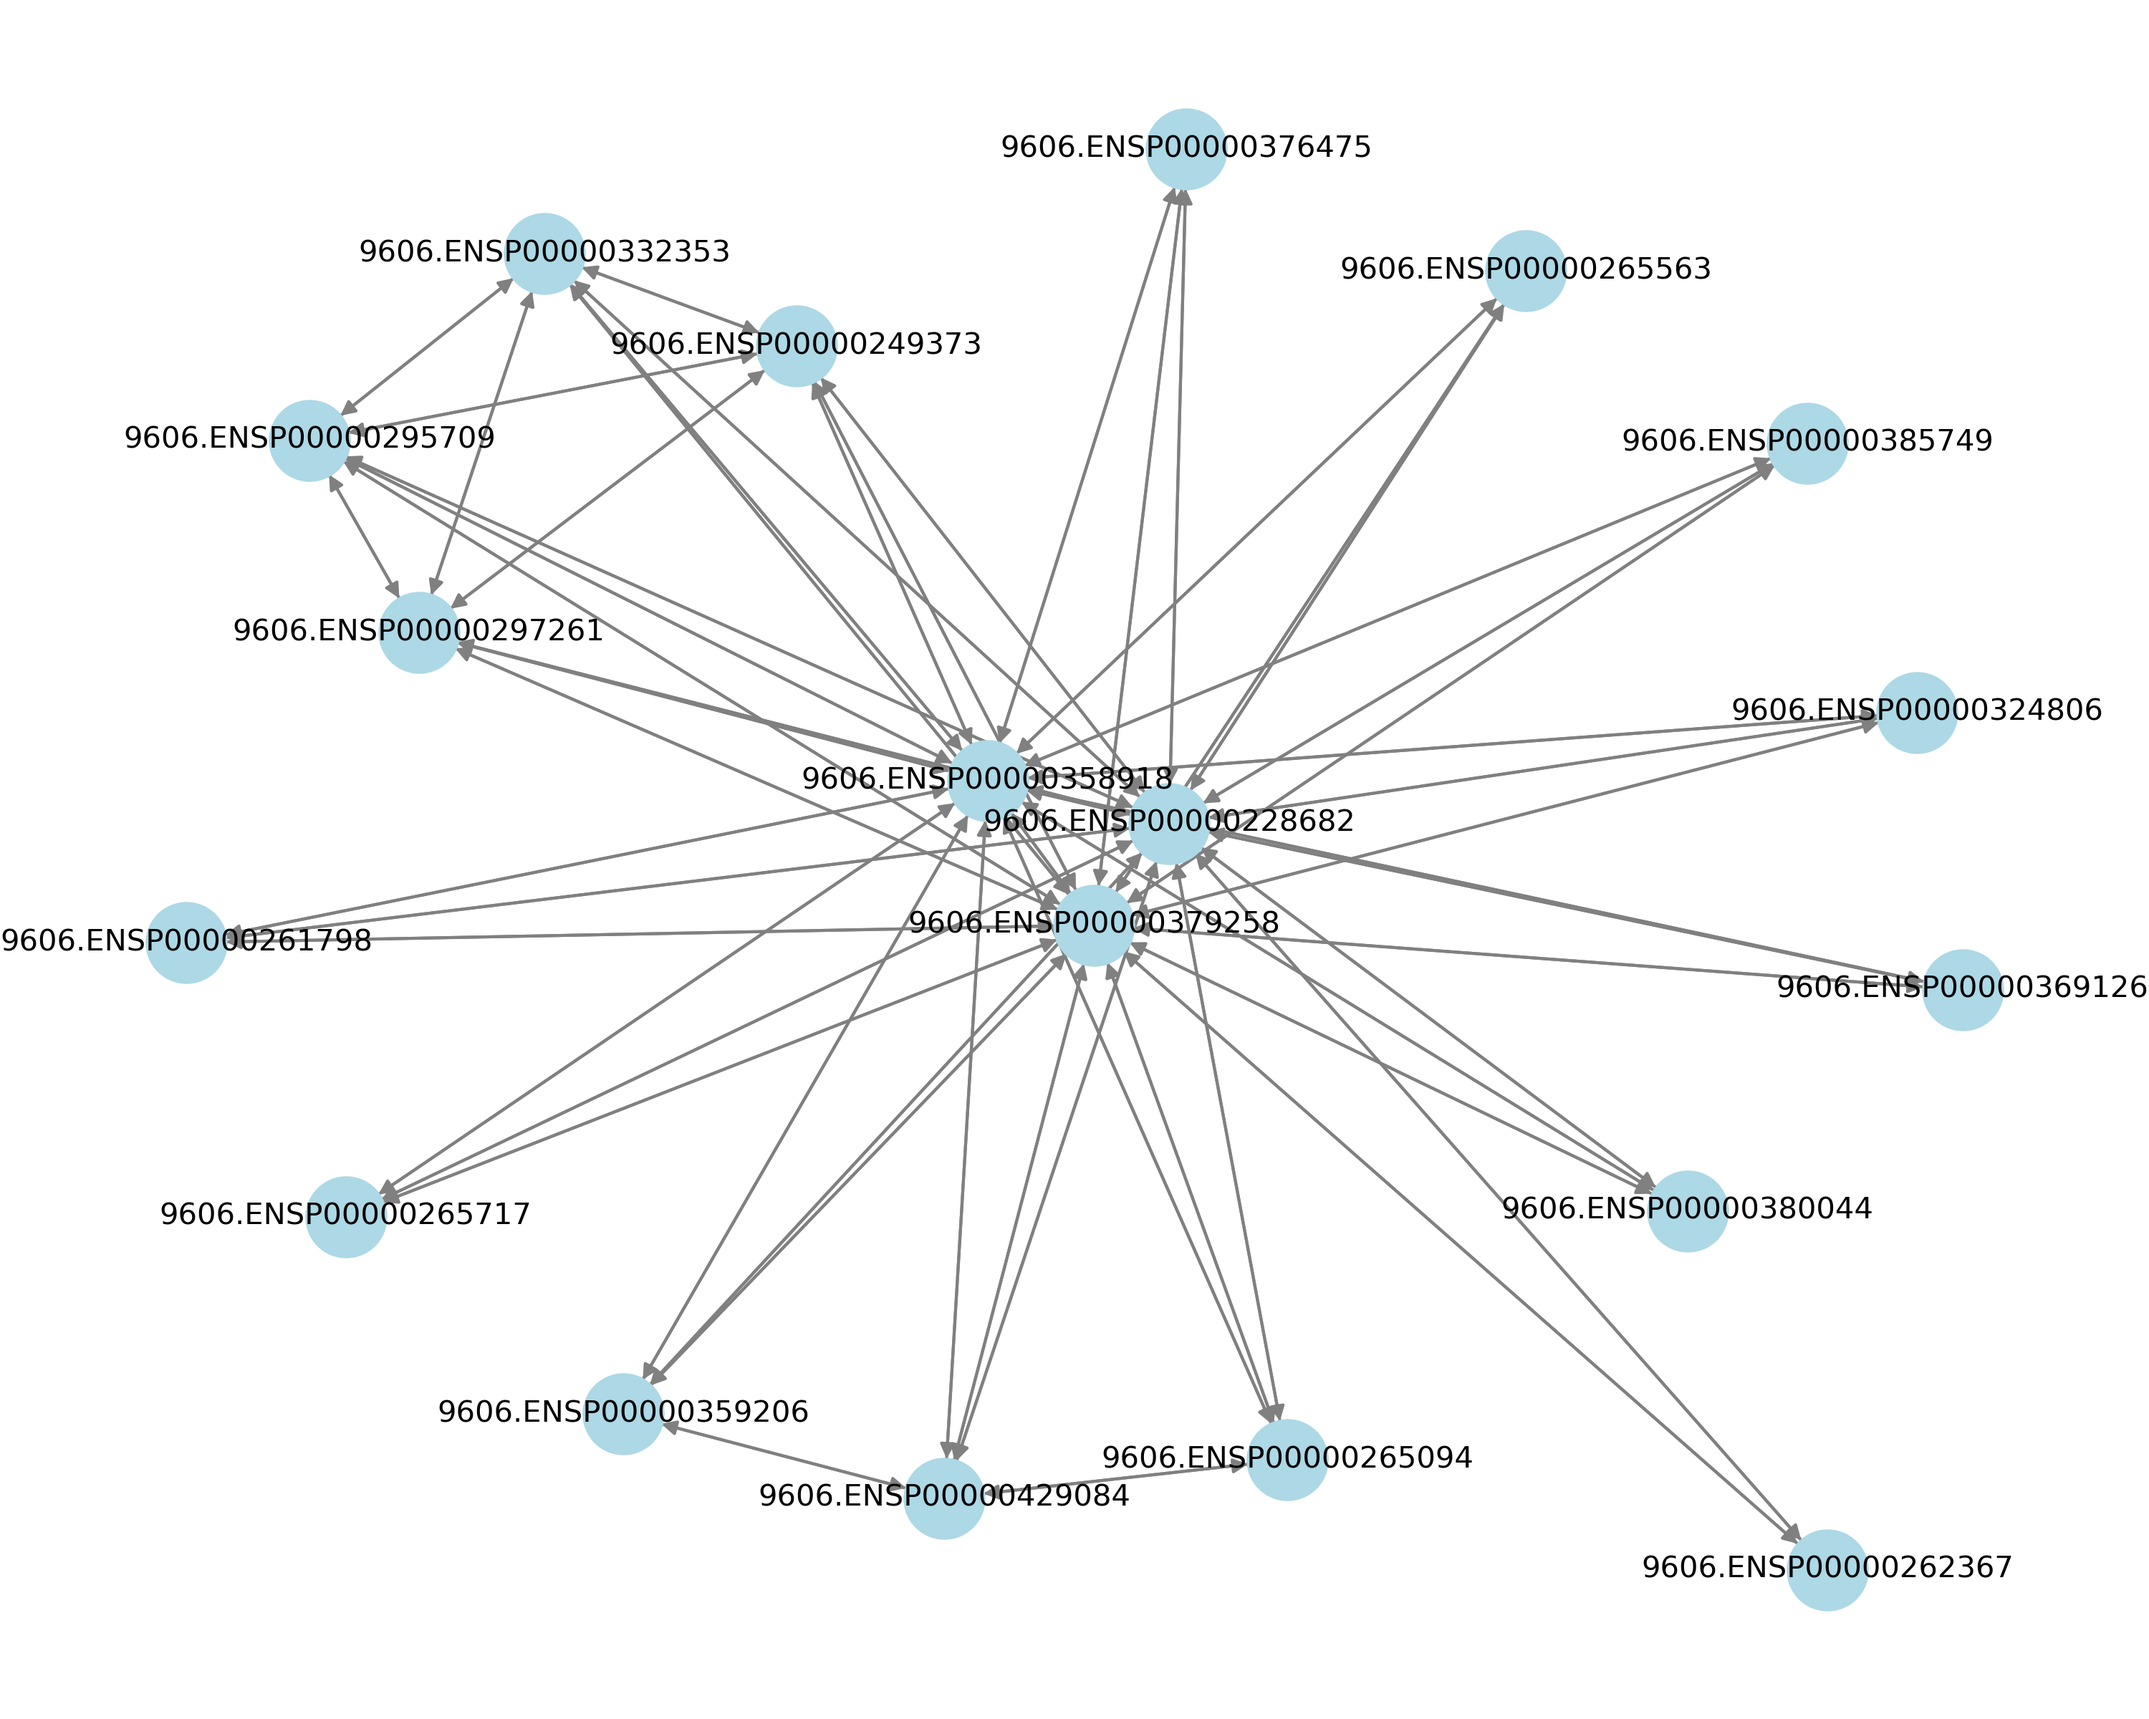
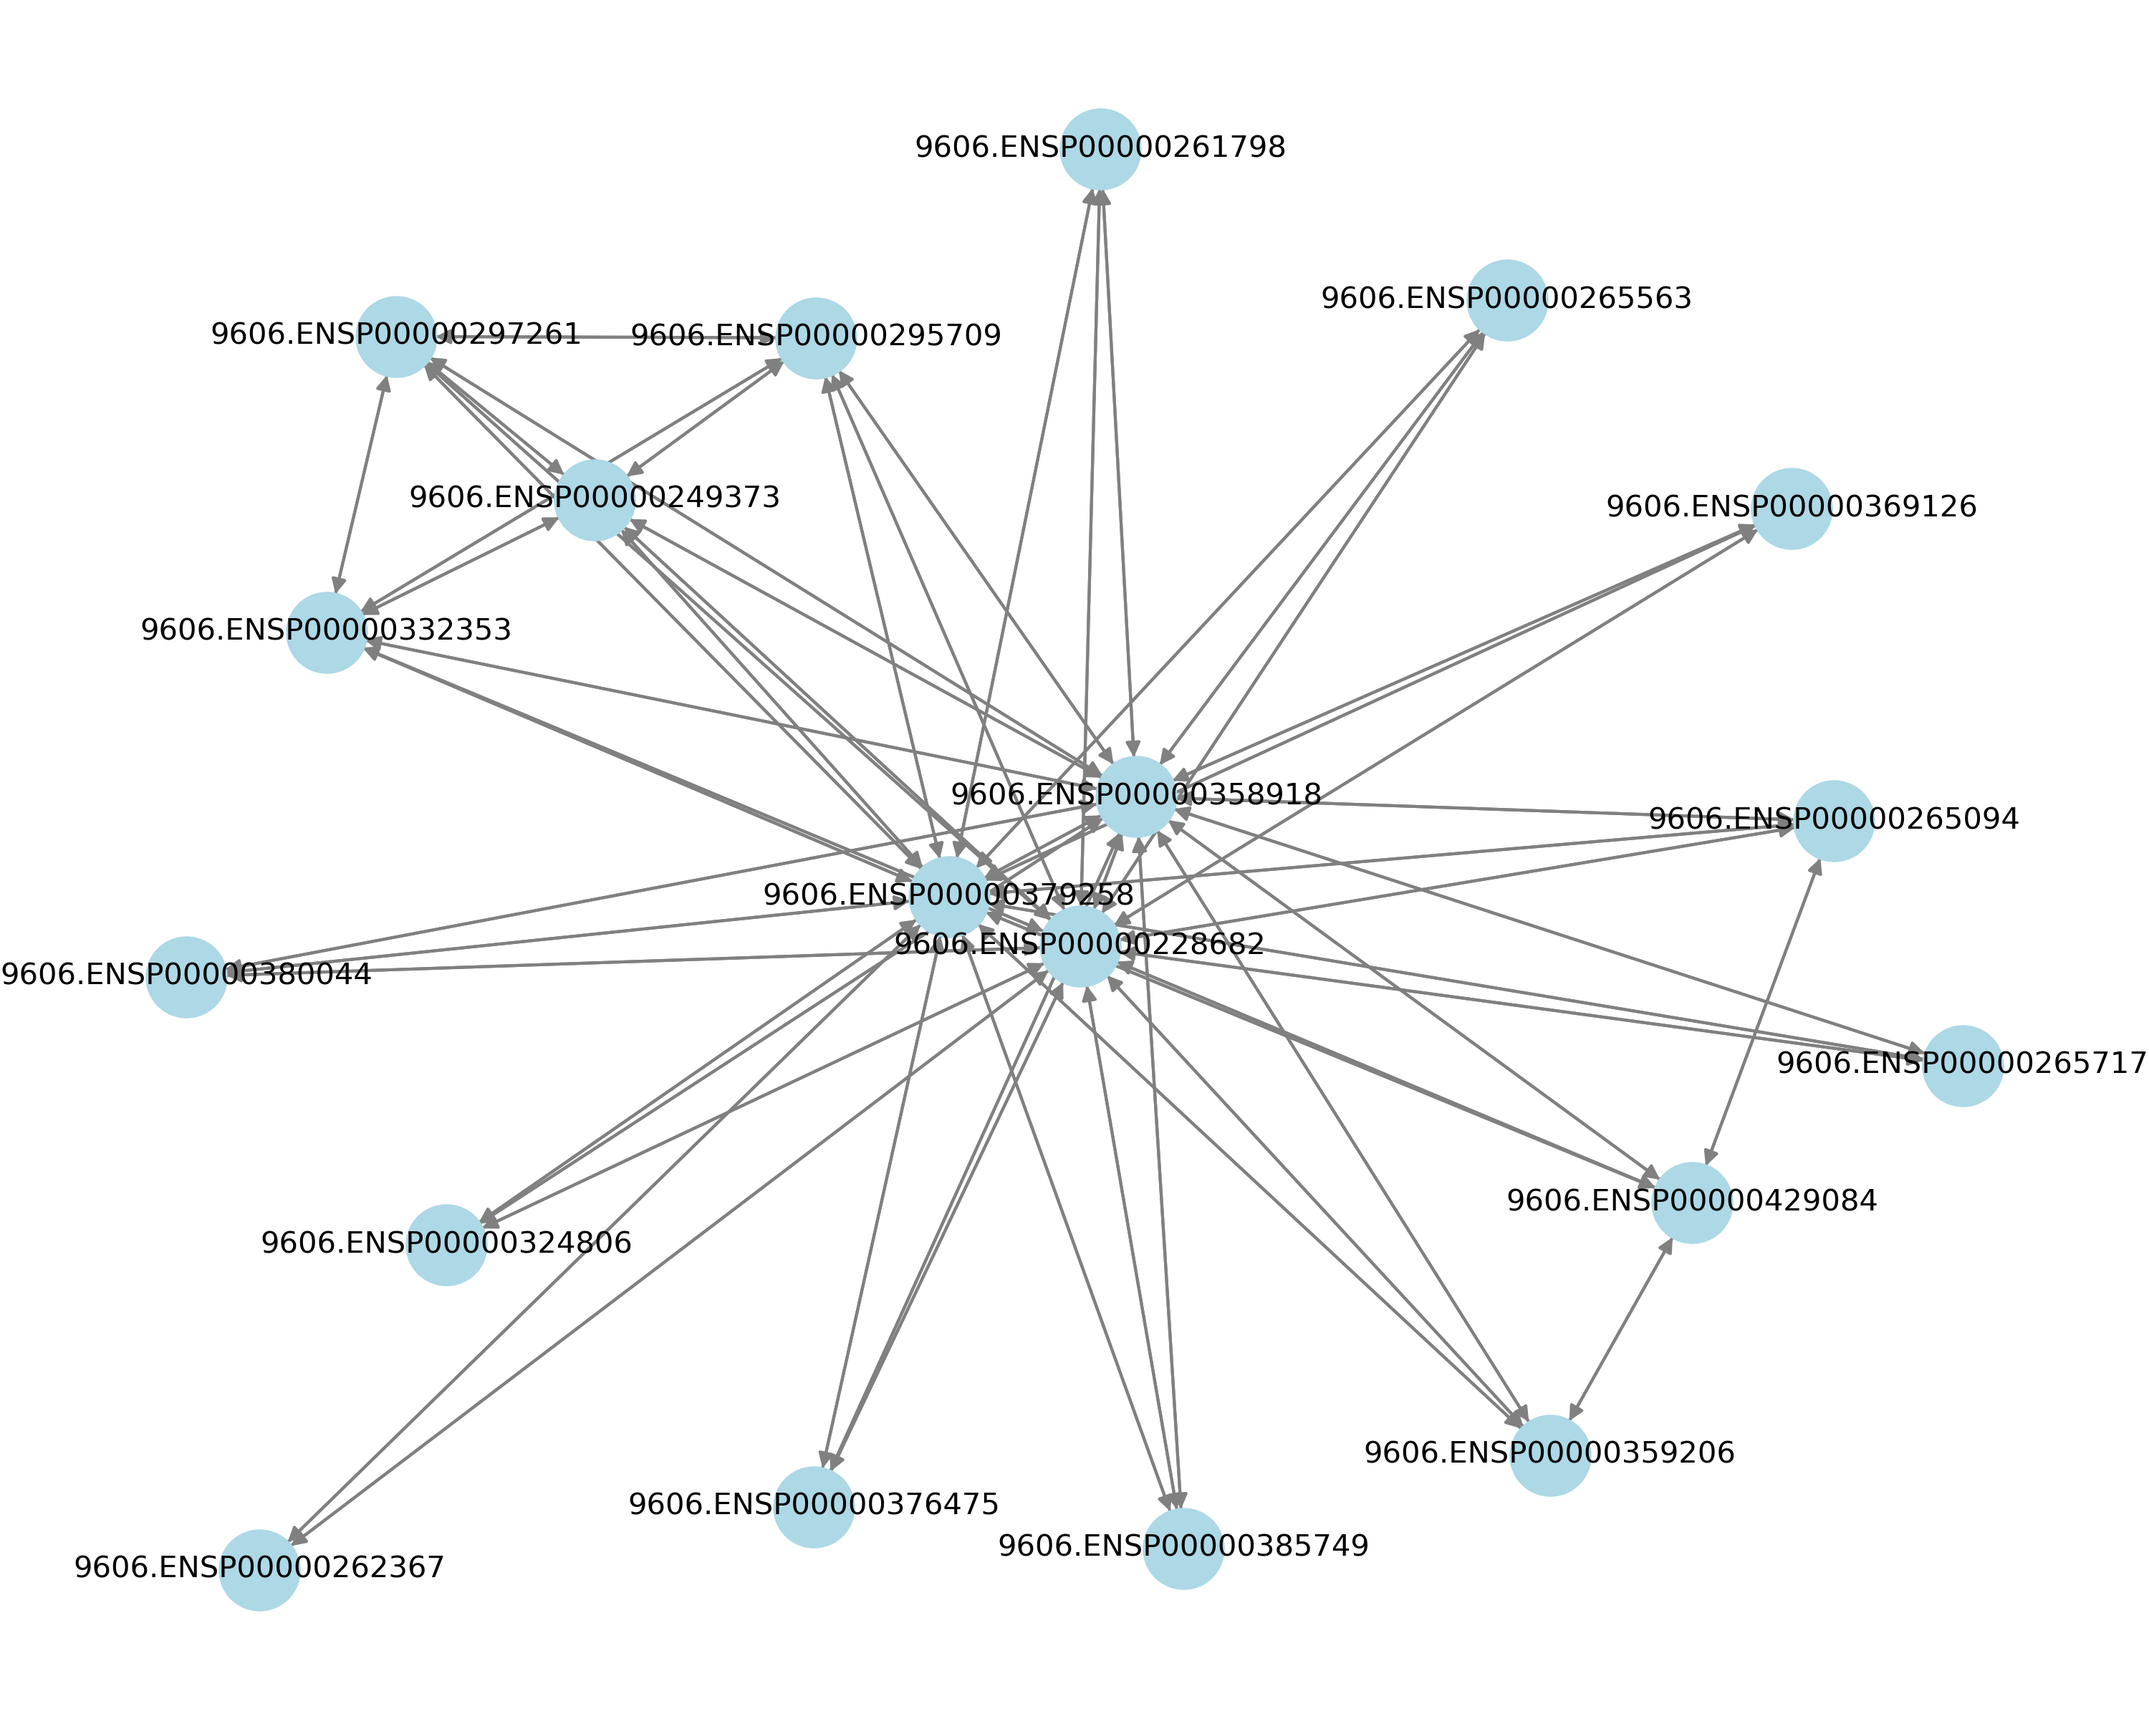
generate connected component of pathway

diff --git a/main.py b/main.py
@@ -131,6 +131,20 @@ def main():
         )
         print()
 
+        # Check if we have disconnected components
+        if len(strongly_connected_components) != 1:
+            # Create a list of (component, number of edges) tuples
+            edge_counts = [
+                (component, len(D.subgraph(component).edges()))
+                for component in strongly_connected_components
+            ]
+
+            # Find the component with the maximum number of edges
+            largest_component, max_edges = max(edge_counts, key=lambda x: x[1])
+            D = D.subgraph(largest_component)
+
+            print(f"Selected component with {max_edges} edges.")
+
         plt.figure(figsize=(10, 8))
         pos = nx.spring_layout(D)
 
